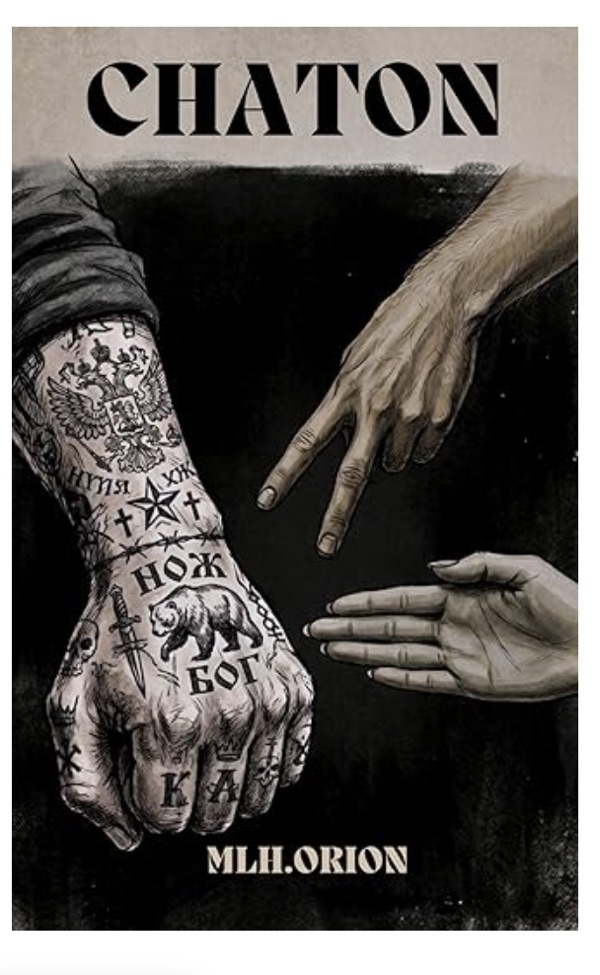
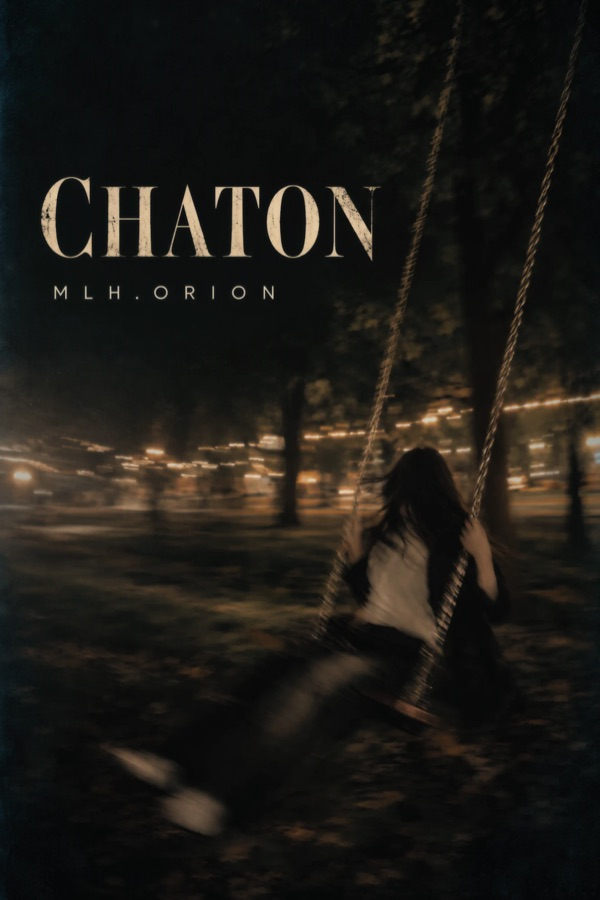
Chaton : nouvelle couverture, réédition en cours
- Nouvelle couverture (site et image de partage)
- Retire les liens Amazon et Wattpad
- Mention « Réédition en cours » avec indicateur de chargement, sur la
  page du livre et dans la liste des livres (immobile si l'appareil
  demande de réduire les animations)
- Descriptions Google mises à jour, plus d'offre d'achat pour Chaton

diff --git a/src/data/books.ts b/src/data/books.ts
@@ -39,6 +39,8 @@ export interface BookData {
   aesthetic: { image?: string; caption: string }[];
   links: { label: string; url: string }[];
   titleNote?: { heading: string; paragraphs: string[] };
+  /** Mention affichée à la place des liens d'achat (ex. « Réédition en cours »). */
+  notice?: string;
 }
 
 export const booksData: Record<string, BookData> = {
@@ -81,10 +83,8 @@ export const booksData: Record<string, BookData> = {
       },
     ],
     aesthetic: [],
-    links: [
-      { label: "Lire sur Amazon", url: "https://www.amazon.fr/CHATON-Ma%C3%ABve-Orion-ebook/dp/B0FY32HL79/ref=sr_1_1?crid=1G8BY6093UYNP&dib=eyJ2IjoiMSJ9.KUzbZmnlzmBdrK32UZe-LA.UvV9BZ1_XGJ61v5yKoMlF0mc6FDC71JTNzpFLVOUsXg&dib_tag=se&keywords=chaton+mlh+orion&qid=1772190463&sprefix=chaton+mlh%2Caps%2C245&sr=8-1" },
-      { label: "Lire gratuitement sur Wattpad", url: "https://www.wattpad.com/user/mlhorion" },
-    ],
+    links: [],
+    notice: "Réédition en cours",
   },
   hybris: {
     title: "Hybris",

diff --git a/src/pages/Livres.tsx b/src/pages/Livres.tsx
@@ -3,6 +3,8 @@ import { Link } from "react-router-dom";
 import chatonCover from "@/assets/chaton-cover.webp";
 import hybrisCoverAsset from "@/assets/hybris-cover.webp";
 import FadeIn from "@/components/FadeIn";
+import BookNotice from "@/components/BookNotice";
+import { booksData } from "@/data/books";
 import Navbar from "@/components/Navbar";
 import Footer from "@/components/Footer";
 
@@ -52,6 +54,7 @@ const Livres = () => {
                 <h2 className="font-display text-2xl font-medium text-foreground mb-4">
                   {book.title}
                 </h2>
+                {booksData[book.slug]?.notice && <BookNotice className="mb-4">{booksData[book.slug].notice}</BookNotice>}
                 <Link
                   to={`/livres/${book.slug}`}
                   className="inline-flex items-center gap-2 font-body text-sm tracking-[0.15em] uppercase px-6 py-2.5 border border-bordeaux text-bordeaux hover:bg-bordeaux hover:text-background transition-colors"

diff --git a/src/pages/BookDetail.tsx b/src/pages/BookDetail.tsx
@@ -6,6 +6,7 @@ import FadeIn from "@/components/FadeIn";
 import Navbar from "@/components/Navbar";
 import Footer from "@/components/Footer";
 import { booksData } from "@/data/books";
+import BookNotice from "@/components/BookNotice";
 
 const BookDetail = () => {
   const { slug } = useParams<{ slug: string }>();
@@ -49,7 +50,8 @@ const BookDetail = () => {
           <h1 className="font-display text-4xl md:text-6xl font-light text-foreground mb-2">
             {book.title}
           </h1>
-          <div className="w-12 h-px bg-bordeaux mb-12" />
+          <div className={`w-12 h-px bg-bordeaux ${book.notice ? "mb-6" : "mb-12"}`} />
+          {book.notice && <BookNotice className="mb-12">{book.notice}</BookNotice>}
         </FadeIn>
 
         {book.cover && (

diff --git a/src/components/BookNotice.tsx b/src/components/BookNotice.tsx
@@ -1,0 +1,15 @@
+import { Loader2 } from "lucide-react";
+
+/** Mention d'avancement d'un livre (ex. « Réédition en cours »), avec un petit indicateur animé. */
+const BookNotice = ({ children, className = "" }: { children: React.ReactNode; className?: string }) => (
+  <p
+    role="status"
+    className={`inline-flex items-center gap-2.5 px-4 py-2 border border-bordeaux/30 bg-bordeaux/5 rounded-sm font-body text-xs tracking-[0.2em] uppercase text-bordeaux ${className}`}
+  >
+    {/* Ne tourne pas si l'appareil demande de réduire les animations */}
+    <Loader2 className="w-4 h-4 motion-safe:animate-spin" aria-hidden />
+    {children}
+  </p>
+);
+
+export default BookNotice;
